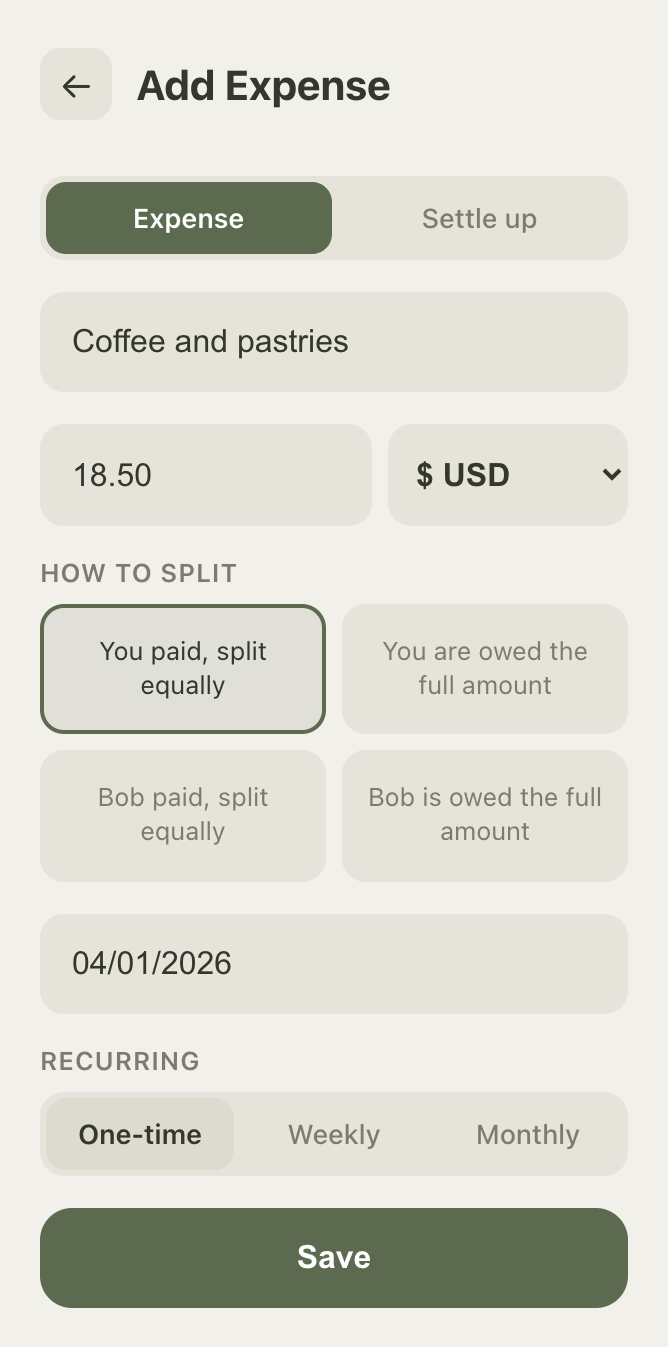
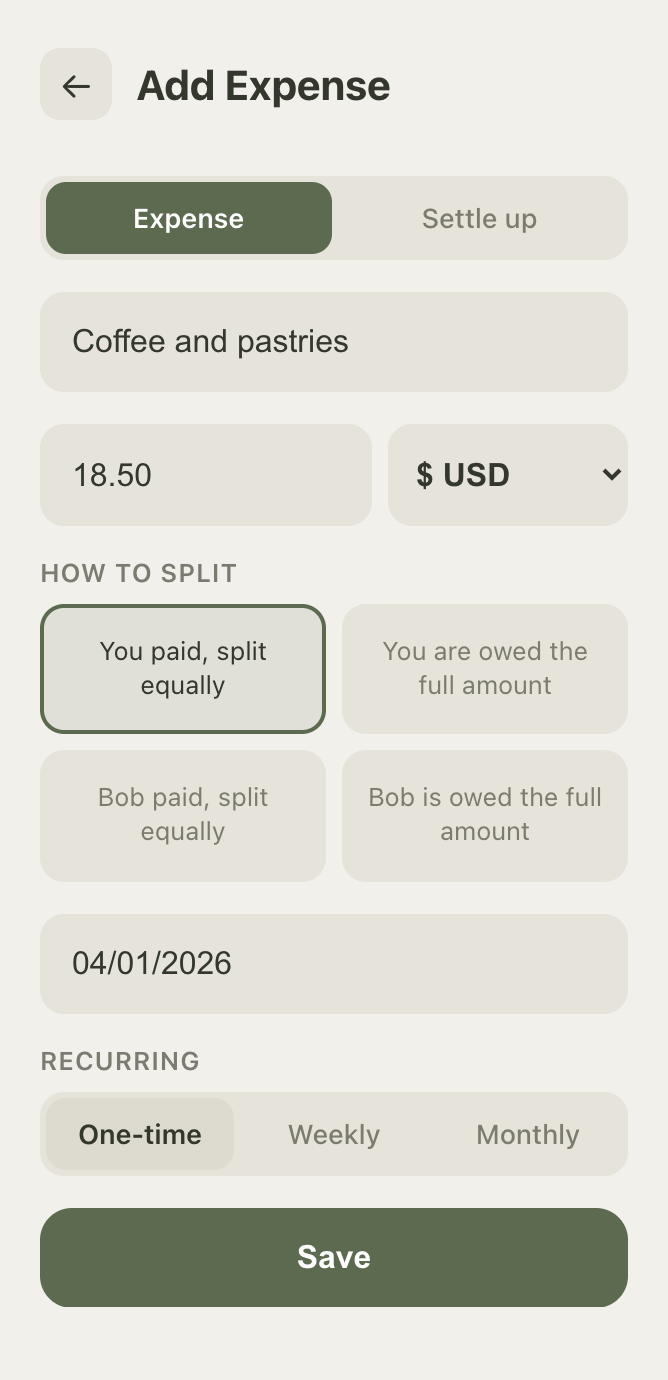
docs: normalize all screenshots to 668×1380, fix duel title size
- Dashboard: 3 history items (cut Uber to airport), padded to 1380px
- Add expense: full form with Save button, padded to 1380px
- Insights: full fun stats, padded to 1380px
- Duel: title font-size matched to real app screenshots (~28px cap height)
- All four screenshots now same dimensions (668×1380)

diff --git a/duel-screenshot.html b/duel-screenshot.html
@@ -6,15 +6,9 @@
 <style>
   html, body { width: 668px; margin: 0; overflow: hidden; background: var(--bg); }
   .page { padding: 52px 20px 40px; }
-
   .game-badge {
-    display: inline-block;
-    background: var(--surface);
-    border-radius: 20px;
-    padding: 8px 20px;
-    font-size: 0.85rem;
-    color: var(--text-muted);
-    margin-bottom: 32px;
+    display: inline-block; background: var(--surface); border-radius: 20px;
+    padding: 8px 20px; font-size: 0.85rem; color: var(--text-muted); margin-bottom: 32px;
   }
   .duel-game { text-align: center; margin-bottom: 24px; }
   .duel-game .lead { font-size: 1.2rem; font-weight: 600; margin-bottom: 8px; }
@@ -24,44 +18,29 @@
   .rps-choices { gap: 16px; margin: 0 0 28px; }
   .duel-result { font-size: 1.3rem; padding: 20px 24px; margin: 0 0 24px; }
   .reveal { font-size: 0.9rem; color: var(--text-muted); margin-bottom: 32px; }
-
-  .score-card {
-    background: var(--surface);
-    border-radius: var(--radius);
-    padding: 20px 24px;
-    margin-bottom: 16px;
-    display: flex;
-    justify-content: space-between;
-    align-items: center;
-    text-align: center;
+  .duel-score-card {
+    display: flex; align-items: center; justify-content: space-between;
+    background: var(--surface); border-radius: var(--radius);
+    padding: 20px 24px; margin-bottom: 16px; text-align: center;
   }
-  .score-player { flex: 1; }
-  .score-player-name { font-size: 0.8rem; color: var(--text-muted); margin-bottom: 4px; }
-  .score-player-val { font-size: 2rem; font-weight: 700; }
-  .score-player-val.winning { color: var(--green); }
-  .score-vs { font-size: 1.1rem; color: var(--text-muted); padding: 0 12px; }
-  .score-note { font-size: 0.78rem; color: var(--text-muted); margin-top: 4px; }
-
-  .duel-history {
-    background: var(--surface);
-    border-radius: var(--radius);
-    padding: 20px;
-  }
-  .duel-history-label {
-    font-size: 0.72rem; letter-spacing: 0.06em; text-transform: uppercase;
-    color: var(--text-muted); margin-bottom: 16px;
-  }
-  .history-row {
-    display: flex; justify-content: space-between; align-items: center;
-    padding: 12px 0; border-bottom: 1px solid var(--surface-2);
-    font-size: 0.9rem;
-  }
+  .duel-score-player { flex: 1; }
+  .duel-score-name { font-size: 0.8rem; color: var(--text-muted); margin-bottom: 4px; }
+  .duel-score-val { font-size: 2rem; font-weight: 700; }
+  .duel-score-val.winning { color: var(--green); }
+  .duel-score-vs { font-size: 1.1rem; color: var(--text-muted); padding: 0 12px; }
+  .duel-score-note { font-size: 0.78rem; color: var(--text-muted); margin-top: 4px; min-height: 1em; }
+  .duel-history-section { background: var(--surface); border-radius: var(--radius); padding: 20px; margin-bottom: 24px; }
+  .duel-history-label { font-size: 0.72rem; letter-spacing: 0.06em; text-transform: uppercase; color: var(--text-muted); margin-bottom: 16px; }
+  .history-row { display: flex; justify-content: space-between; align-items: center; padding: 12px 0; border-bottom: 1px solid var(--surface-2); font-size: 0.9rem; }
   .history-row:last-child { border-bottom: none; }
-  .history-game { color: var(--text); font-weight: 500; }
-  .history-date { color: var(--text-muted); font-size: 0.78rem; margin-top: 2px; }
+  .history-game { font-weight: 500; }
+  .history-date { font-size: 0.78rem; color: var(--text-muted); margin-top: 2px; }
   .result-win { color: var(--green); font-weight: 600; }
   .result-loss { color: var(--red); font-weight: 600; }
   .result-tie { color: var(--text-muted); font-weight: 500; }
+  /* Match header title pixel size to real app screenshots (captured at 2x) */
+  .screen-header h2 { font-size: 2.5rem !important; }
+  .btn-icon { font-size: 1.8rem !important; }
 </style>
 </head>
 <body>
@@ -84,21 +63,21 @@
     <p class="reveal">Bob played ✌ · You played ✊</p>
   </div>
 
-  <div class="score-card">
-    <div class="score-player">
-      <div class="score-player-name">Alice</div>
-      <div class="score-player-val winning">8</div>
-      <div class="score-note">+$30 ahead</div>
+  <div class="duel-score-card">
+    <div class="duel-score-player">
+      <div class="duel-score-name">Alice</div>
+      <div class="duel-score-val winning">8</div>
+      <div class="duel-score-note">+$30 ahead</div>
     </div>
-    <div class="score-vs">vs</div>
-    <div class="score-player">
-      <div class="score-player-name">Bob</div>
-      <div class="score-player-val">5</div>
-      <div class="score-note">&nbsp;</div>
+    <div class="duel-score-vs">vs</div>
+    <div class="duel-score-player">
+      <div class="duel-score-name">Bob</div>
+      <div class="duel-score-val">5</div>
+      <div class="duel-score-note">&nbsp;</div>
     </div>
   </div>
 
-  <div class="duel-history">
+  <div class="duel-history-section">
     <div class="duel-history-label">Past Duels</div>
     <div class="history-row">
       <div><div class="history-game">Rock Paper Scissors</div><div class="history-date">Week 14 · Alice wins</div></div>
@@ -123,6 +102,14 @@
     <div class="history-row">
       <div><div class="history-game">Wheel of Fortune</div><div class="history-date">Week 9 · Bob wins</div></div>
       <div class="result-loss">−$10</div>
+    </div>
+    <div class="history-row">
+      <div><div class="history-game">Lucky Number</div><div class="history-date">Week 8 · Alice wins</div></div>
+      <div class="result-win">+$10</div>
+    </div>
+    <div class="history-row">
+      <div><div class="history-game">Coin Flip</div><div class="history-date">Week 7 · Tie</div></div>
+      <div class="result-tie">Tie</div>
     </div>
   </div>
 </div>
